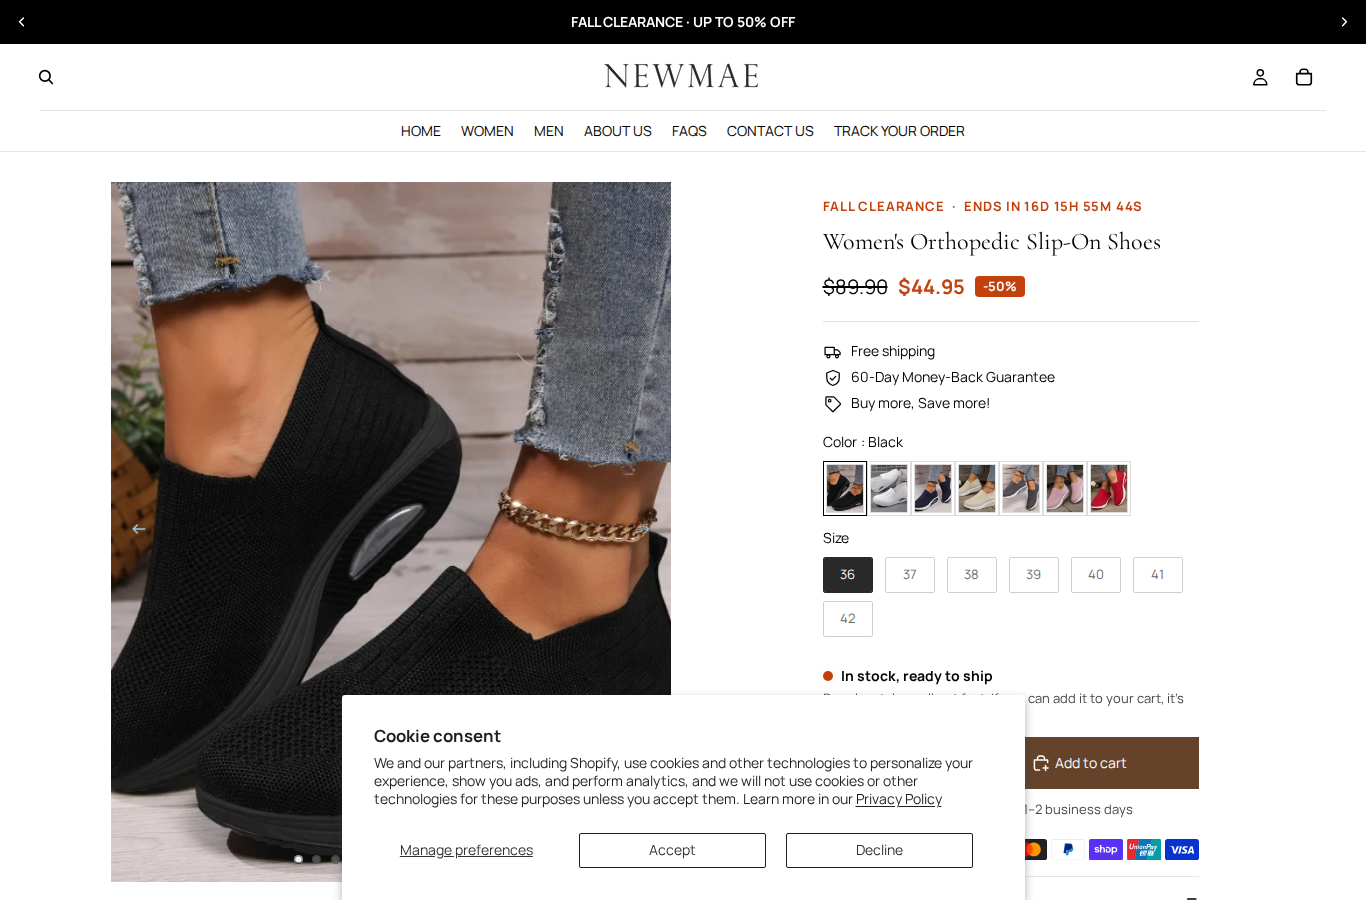
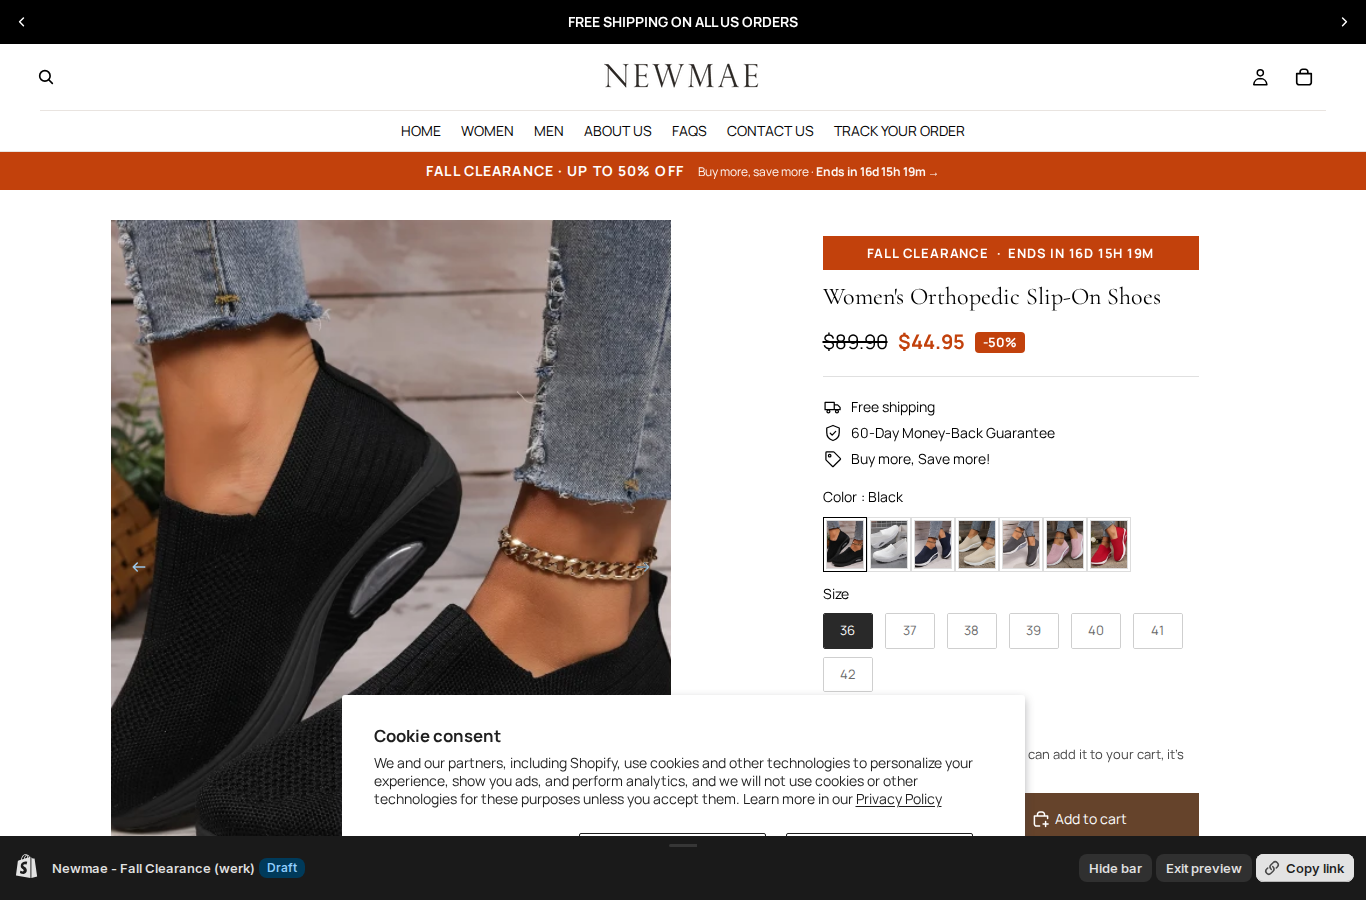
NewMae Fall Clearance: compact sale bar on every page, product sale bar, sync product template
Claude-Session: https://claude.ai/code/session_018o1F5pquvMjEbPFw2Wz8La

diff --git a/newmae/README.md b/newmae/README.md
@@ -54,3 +54,8 @@
   Product badge as orange text "FALL CLEARANCE · ENDS IN …". One orange everywhere (#F97316 removed, announcement
   text white). Hero height 100% → 80%. Product photo desktop: max 560px wide / fits the screen height
   (CSS in blocks/pp-title.liquid), equal columns. Colour options: screenshots/kleur-opties.png.
+- Round 3: sale banner moved into the header group (every page), compact: "FALL CLEARANCE · UP TO 50% OFF" +
+  small "Buy more, save more · Ends in 16d 15h 19m →", whole bar links to /collections/fall-clearance. Removed from
+  the index and collection templates; the two sale messages left the announcement bar (shipping + returns stay).
+  Product: sale badge is now a full-width orange bar. templates/product.json synced with the user's editor version
+  (customer photo blocks added by the user).
